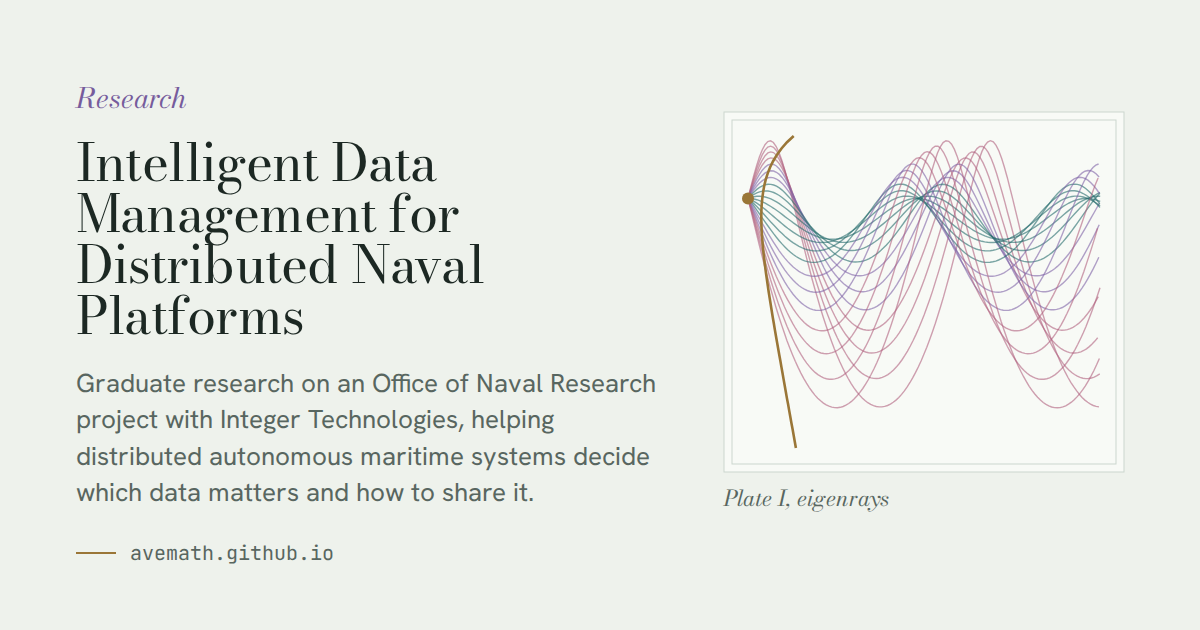
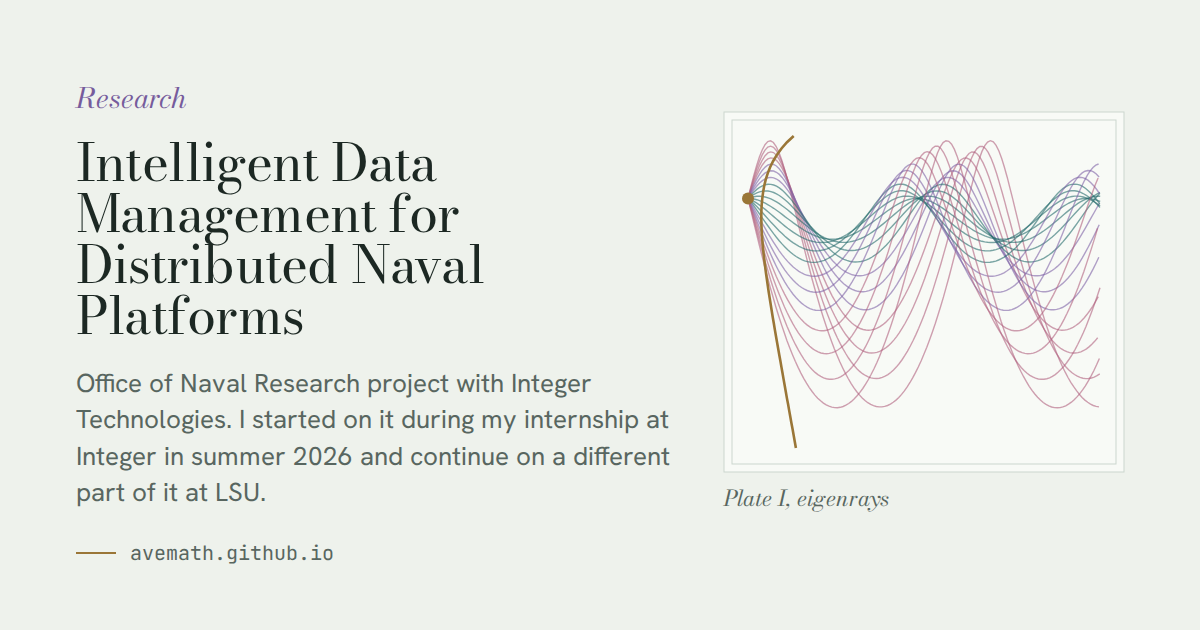
ONR from May 2026, begun at Integer and continued at LSU; same-month order for Integer, ONR, bellhopSim

Changed region(s): [[0.0617, 0.573, 0.555, 0.8143]]

diff --git a/src/content.config.ts b/src/content.config.ts
@@ -18,6 +18,9 @@ const projects = defineCollection({
       featured: z.boolean().default(false),
       // Lower numbers come first.
       order: z.number().default(100),
+      // Among projects that start in the same month, lower numbers come first wherever projects
+      // are sorted by date (the thread map, the bench).
+      sameMonth: z.number().default(0),
       period: z.object({ start: month, end: month.optional() }),
       status: z.enum(['live', 'ongoing', 'complete', 'archived']),
       summary: z.string().max(200),

diff --git a/src/content/projects/onr-intelligent-data-management.md b/src/content/projects/onr-intelligent-data-management.md
@@ -5,11 +5,12 @@ type: research
 tags: [research, engineering]
 featured: true
 order: 13
-period: { start: "2026" }
+period: { start: "2026-05" }
+sameMonth: 2
 status: ongoing
-summary: Graduate research on an Office of Naval Research project with Integer Technologies, helping distributed autonomous maritime systems decide which data matters and how to share it.
-outcome: Sponsored research, ongoing through my M.S.
-role: Graduate research assistant on the LSU team, advised by Dr. Shuangqing Wei.
+summary: Office of Naval Research project with Integer Technologies. I started on it during my internship at Integer in summer 2026 and continue on a different part of it at LSU.
+outcome: Ongoing. I continue on a different part of the same project at LSU, through my M.S.
+role: Started during my internship at Integer Technologies in summer 2026; now a graduate research assistant at LSU, advised by Dr. Shuangqing Wei.
 team: An LSU team working with Integer Technologies engineers.
 seoTitle: "ONR research: Intelligent Data Management"
 seoDescription: "Graduate research on an Office of Naval Research project with Integer Technologies, helping distributed autonomous maritime systems decide which data matters."
@@ -19,6 +20,7 @@ links:
   writeup: https://lsu.edu/eng/news/2024/09/lsu-integer-partner-to-optimize-navy-and-marine-corps-operations.php
 confidentiality: limited
 threads: [signals] # TODO(ave): confirm the thread for each project
+# TODO(ave): check wording of the summary, role and My role (Nov 10: the ONR work began during the Integer internship).
 ---
 
 ## Context
@@ -29,7 +31,7 @@ In 2024 the Office of Naval Research funded Integer Technologies and LSU to work
 
 ## My role
 
-I joined the project as a graduate research assistant in 2026. Dr. Aldo Duarte recommended me for it based on my software-defined radio work in his communications design course. My thesis-track M.S. is focused on communications and signal processing, which is where I contribute.
+I started on this project in summer 2026, during my internship at Integer Technologies. I'm continuing on a different part of the same project, Intelligent Data Management for Distributed Naval Platforms, as a graduate research assistant at LSU, advised by Dr. Shuangqing Wei. Dr. Aldo Duarte recommended me for the research post based on my software-defined radio work in his communications design course. My thesis-track M.S. is focused on communications and signal processing, which is where I contribute.
 
 ## What I can share
 

diff --git a/src/content/projects/integer-internship.md b/src/content/projects/integer-internship.md
@@ -6,6 +6,7 @@ tags: [engineering, research]
 featured: false
 order: 14
 period: { start: "2026-05", end: "2026-08" }
+sameMonth: 1
 status: complete
 summary: Acoustic characterization of a thruster on a test stand in the lab tank, and work with the underwater network simulation tools.
 outcome: Internship completed August 2026.
@@ -17,6 +18,7 @@ cover: ../../assets/projects/integer-internship/wagon.jpg
 coverAlt: Three people seen from behind, walking across a sunny parking lot toward the cars, one in an LSU cap pushing a folding wagon loaded with gear.
 confidentiality: limited
 threads: [signals] # TODO(ave): confirm the thread for each project
+# TODO(ave): check wording of the summary, role and My role (Nov 10: the ONR work began during the Integer internship).
 ---
 
 ## Context
@@ -26,6 +28,8 @@ Integer Technologies builds software for autonomous surface and underwater vehic
 ## My role
 
 I was an engineering intern on the Baton Rouge team. My main project was the acoustic characterization of a thruster on a test stand in the lab tank: I planned the measurements, ran them, and analyzed the recordings. I also worked with the team's underwater network simulation tools.
+
+This is also where my work on the Office of Naval Research project [Intelligent Data Management for Distributed Naval Platforms](/work/onr-intelligent-data-management/) began. I continue on a different part of it at LSU.
 
 ## What I can share
 

diff --git a/src/content/projects/bellhop-sim.md b/src/content/projects/bellhop-sim.md
@@ -5,6 +5,7 @@ type: engineering
 tags: [engineering, research]
 order: 5
 period: { start: "2026-05" }
+sameMonth: 3
 status: complete
 summary: Jupyter notebooks that drive the BELLHOP ray model from Python, to show how sound bends, fades and echoes underwater and what that does to a BPSK link.
 outcome: With no equalizer, a BPSK link through the BELLHOP channel got about 3 bits in 10 wrong even at 20 dB SNR. The echoes caused the errors, not the noise.
